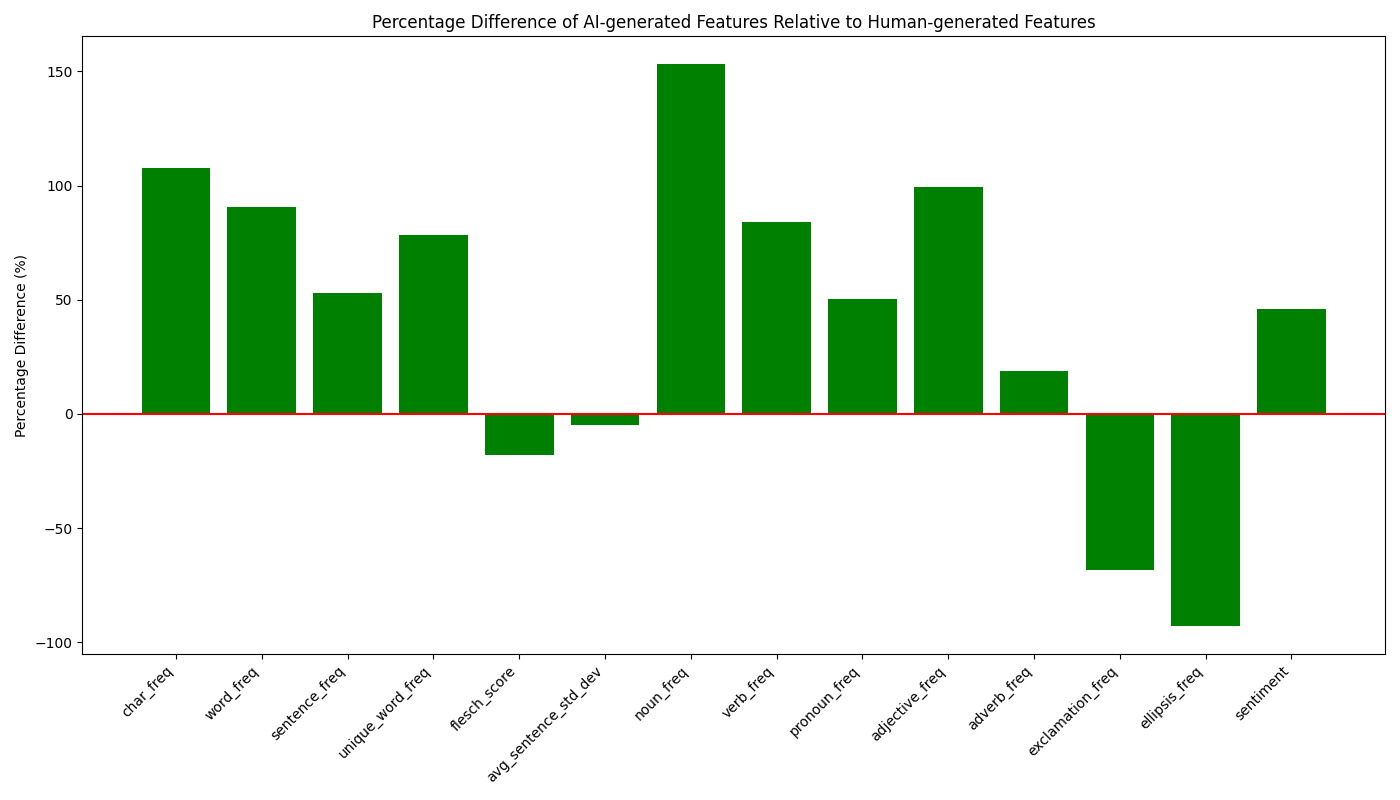
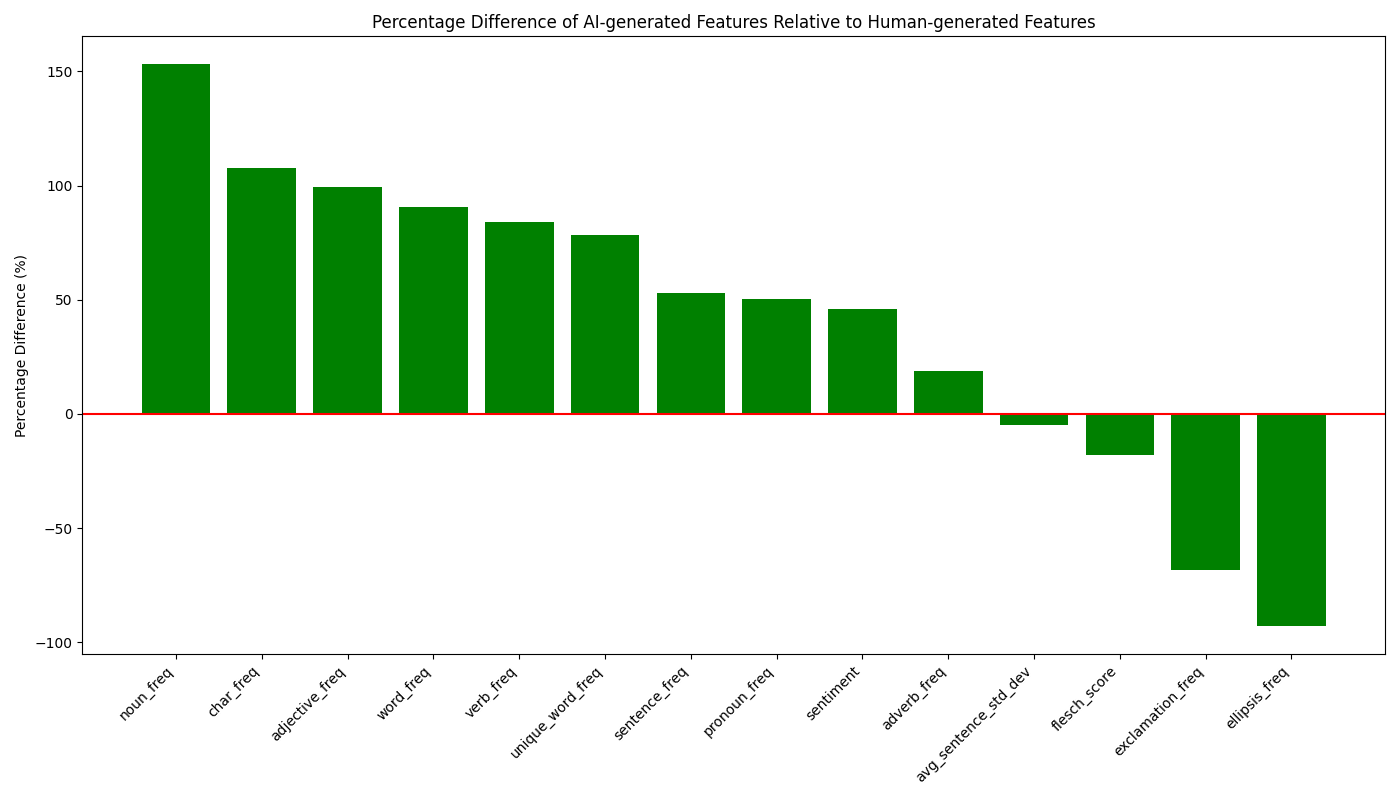
Updated visualization of experiment 1

diff --git a/experiment1.py b/experiment1.py
@@ -8,7 +8,6 @@ from vaderSentiment.vaderSentiment import SentimentIntensityAnalyzer
 import matplotlib.pyplot as plt
 from scipy.stats import ttest_ind
 
-
 # Initialize global resources
 NLP = spacy.load("en_core_web_sm")
 ANALYZER = SentimentIntensityAnalyzer()
@@ -69,18 +68,20 @@ def plot_features(data):
     human_means = human_features_df.mean()
     ai_means = ai_features_df.mean()
     percentage_diff = ((ai_means / human_means) - 1) * 100
+    
+    # Sort the percentage_diff in descending order
+    percentage_diff_sorted = percentage_diff.sort_values(ascending=False)
 
     _, ax = plt.subplots(figsize=(14, 8))
     plt.rcParams["font.family"] = "Times New Roman"
-    ax.bar(percentage_diff.index, percentage_diff, color='green')
+    ax.bar(percentage_diff_sorted.index, percentage_diff_sorted, color='green')
     ax.set_ylabel('Percentage Difference (%)')
     ax.set_title('Percentage Difference of AI-generated Features Relative to Human-generated Features')
-    ax.set_xticklabels(percentage_diff.index, rotation=45, ha="right")
+    ax.set_xticklabels(percentage_diff_sorted.index, rotation=45, ha="right")
     ax.axhline(y=0, color='red', linestyle='-')
     plt.tight_layout()
     plt.savefig(args.output_plot)
     plt.show()
-
 
 def test_significance(human_features_df, ai_features_df):
     """Check the statistical significance of differences between human and AI generated features."""
